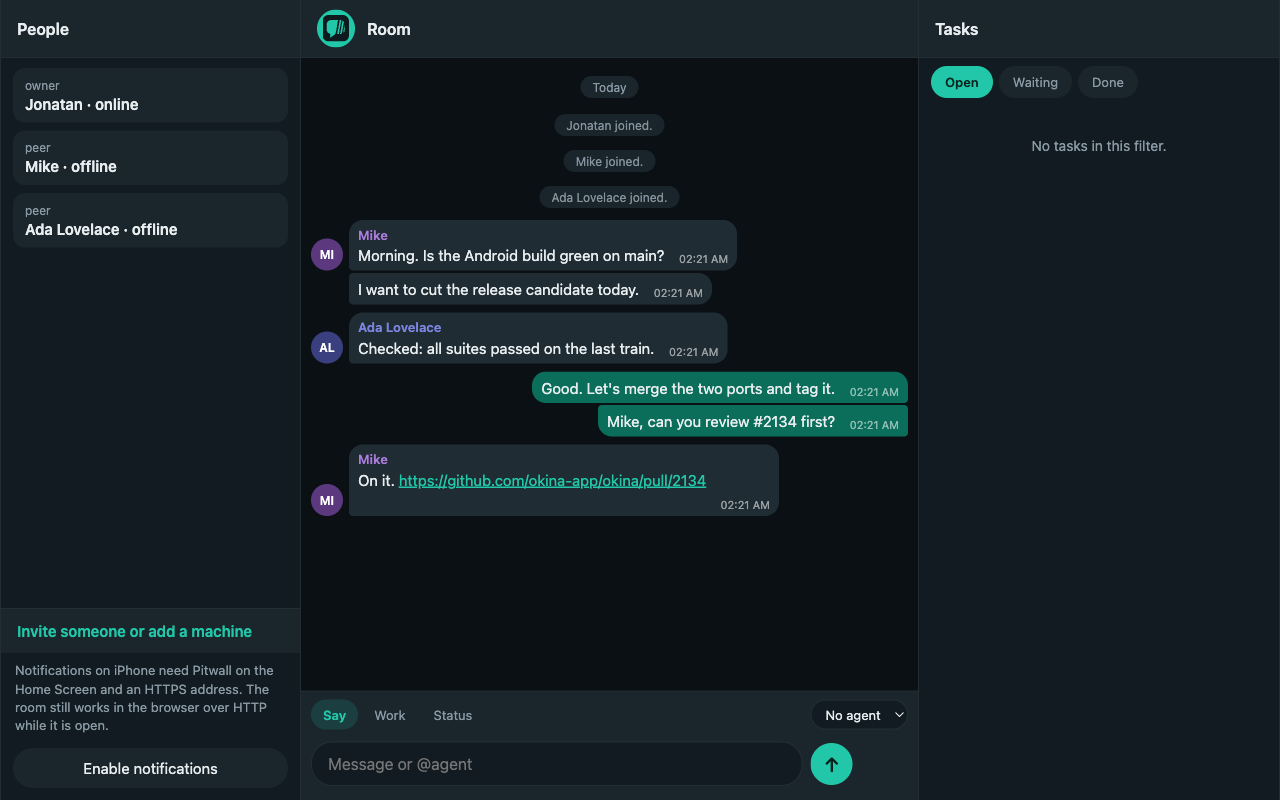
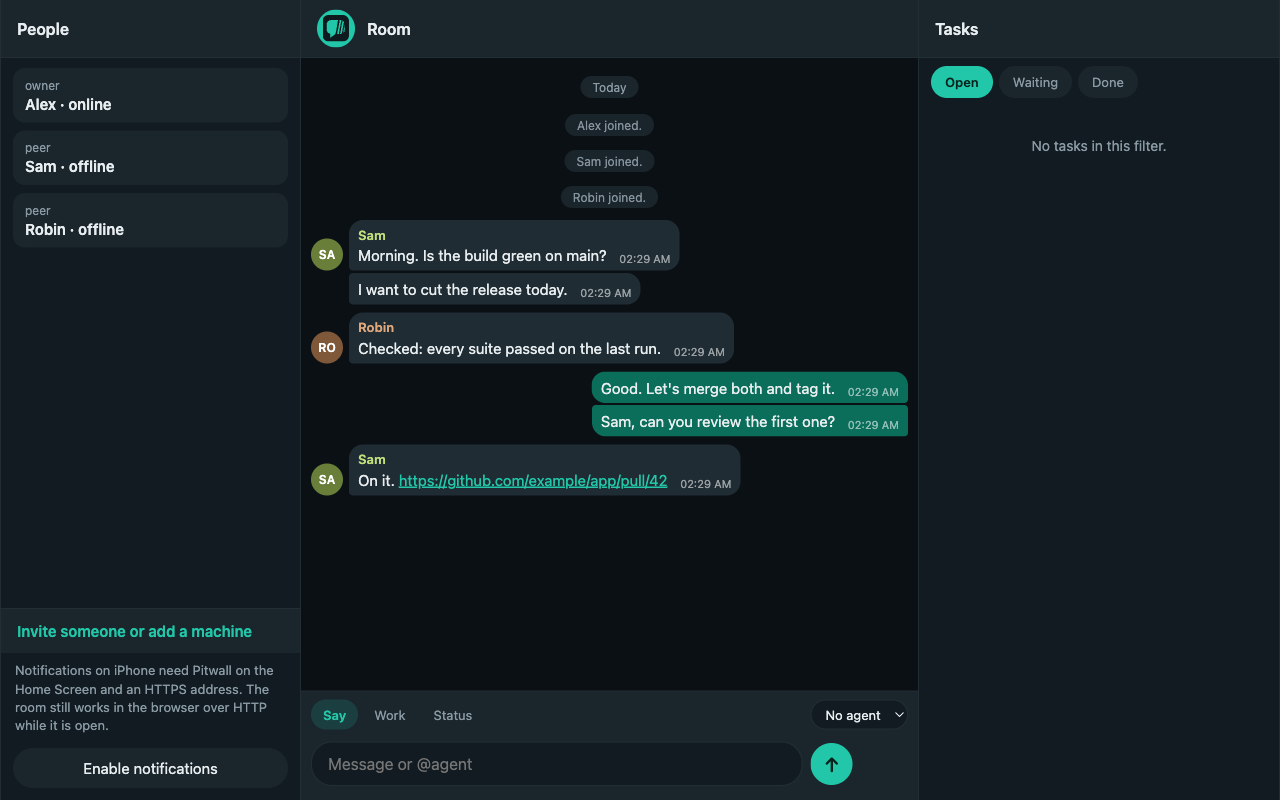
Use neutral names in the screenshots, the tests and the license

diff --git a/src/protocol/protocol.test.ts b/src/protocol/protocol.test.ts
@@ -145,7 +145,7 @@ describe('status and links', () => {
 describe('room reduce', () => {
   it('ignores an older event and keeps one copy of a message', () => {
     const snapshot: Snapshot = {
-      me: { id: 'u1', name: 'Jonatan', role: 'owner', online: true },
+      me: { id: 'u1', name: 'Alex', role: 'owner', online: true },
       people: [],
       machines: [],
       agents: [],
@@ -160,7 +160,7 @@ describe('room reduce', () => {
       clientId: 'client-1',
       senderKind: 'human' as const,
       senderId: 'u1',
-      senderName: 'Jonatan',
+      senderName: 'Alex',
       body: 'Hello',
       taskId: null,
       createdAt: '2026-10-24T00:00:00.000Z',
